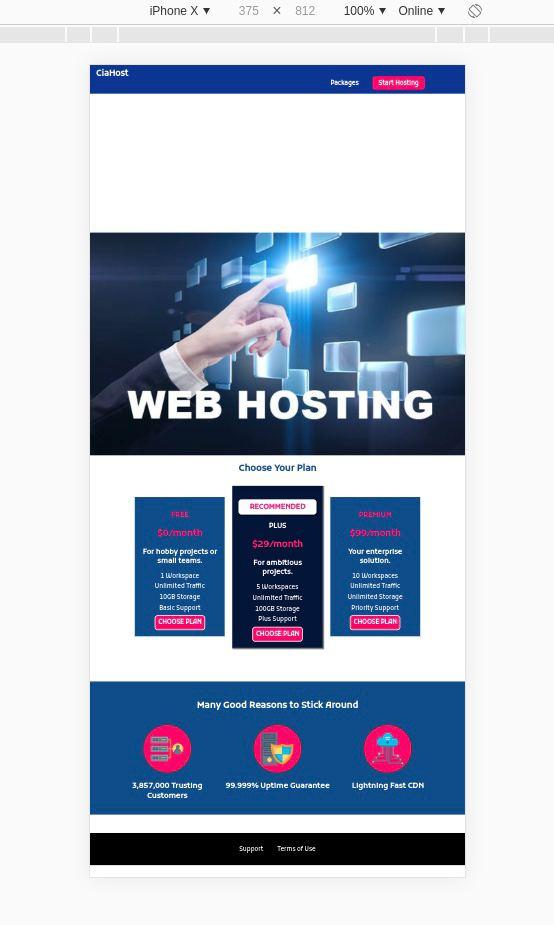
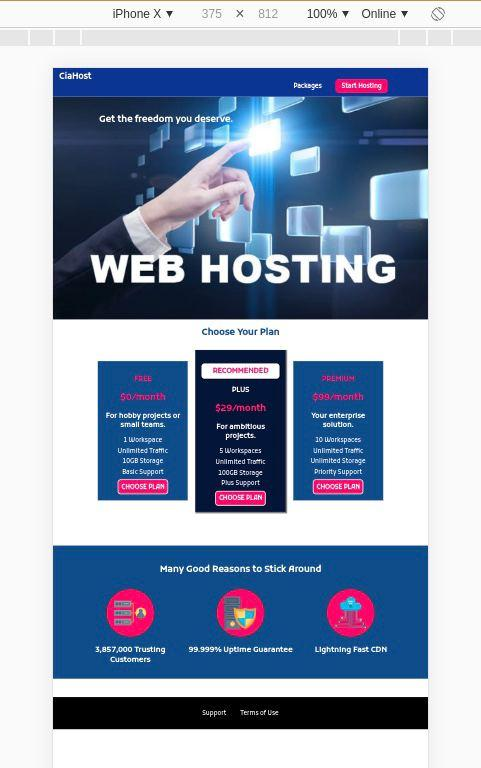
Verified by Cia v1.1.4

diff --git a/main.css b/main.css
@@ -6,7 +6,7 @@
     background-size: 100%;
     background-position: 0% 100%;
     width: 100%;
-    height: 1020px;
+    height: 657px;
     padding: 10px;   
 }
 
